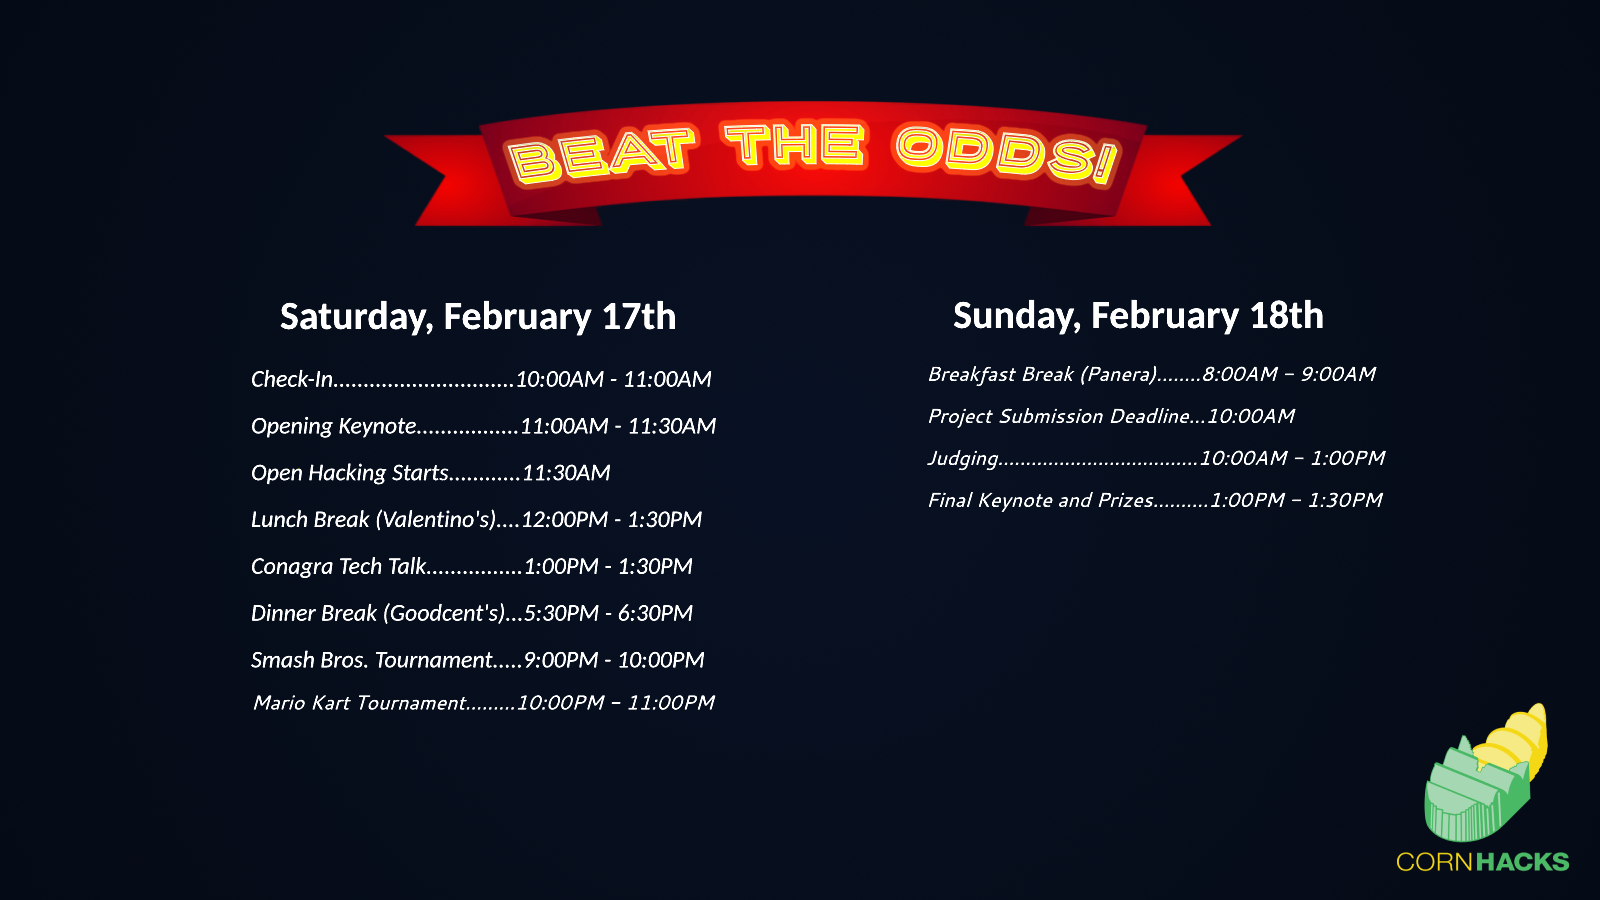
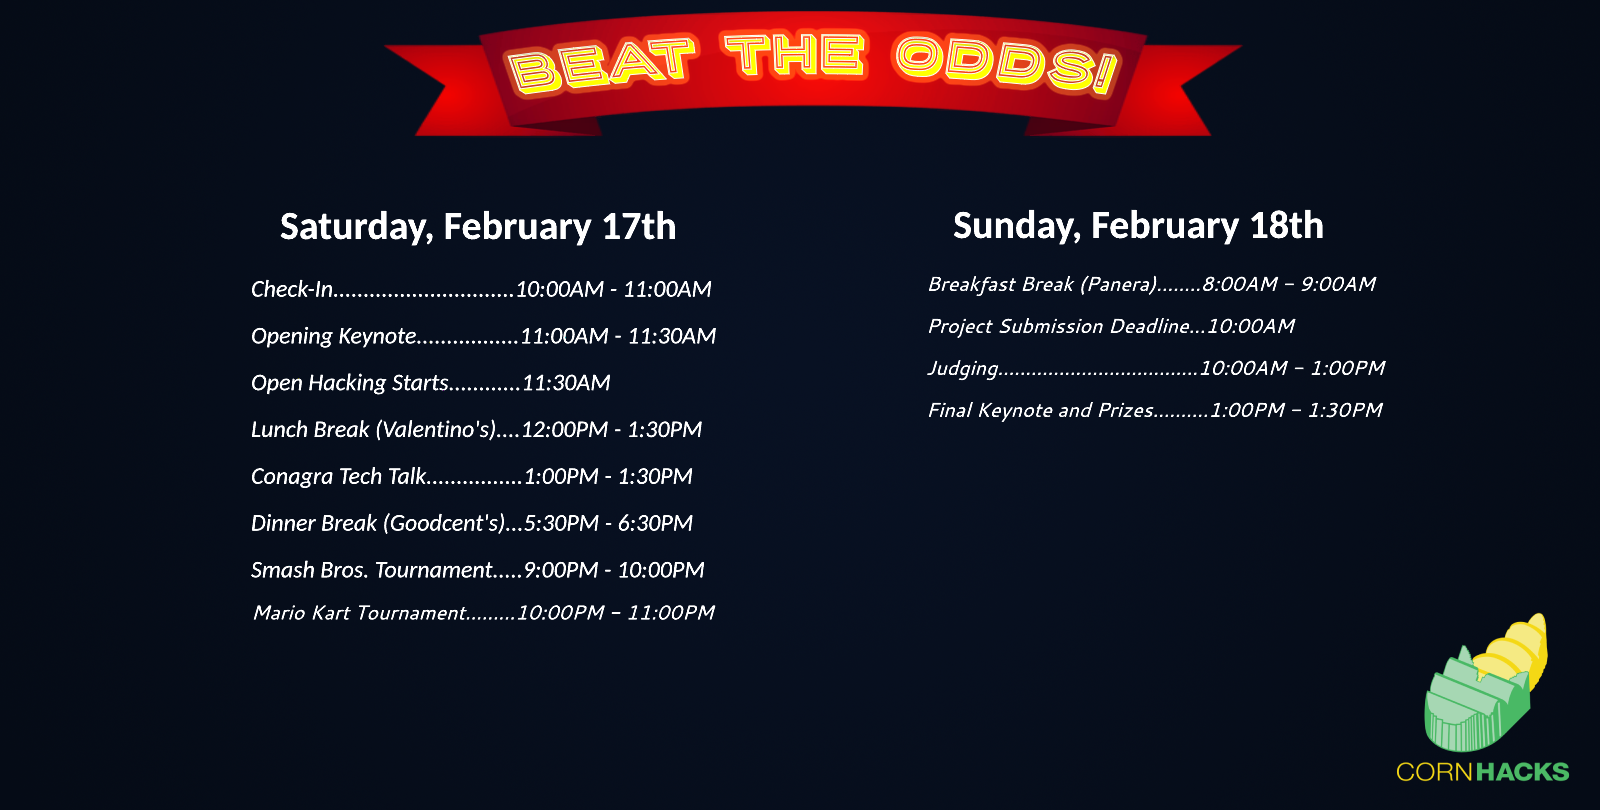
fixed image resizing issues sorta

diff --git a/src/Pages/Schedule/SchedulePage.js b/src/Pages/Schedule/SchedulePage.js
@@ -22,10 +22,10 @@ const SchedulePage = () => (
             display: "flex",
             backgroundColor: "#050b16",
             height: "100vh",
-            width: "100vw",
-            alignItems: "center"
+            width: "100%",
+            justifyContent: "center"
         }}>
-            <img src={CornHacksSchedule} style={{ width: "100vw"}} />
+            <img src={CornHacksSchedule} style={{ maxWidth: "100%", maxHeight: "100%"}} />
         </div>
     </>
 );
